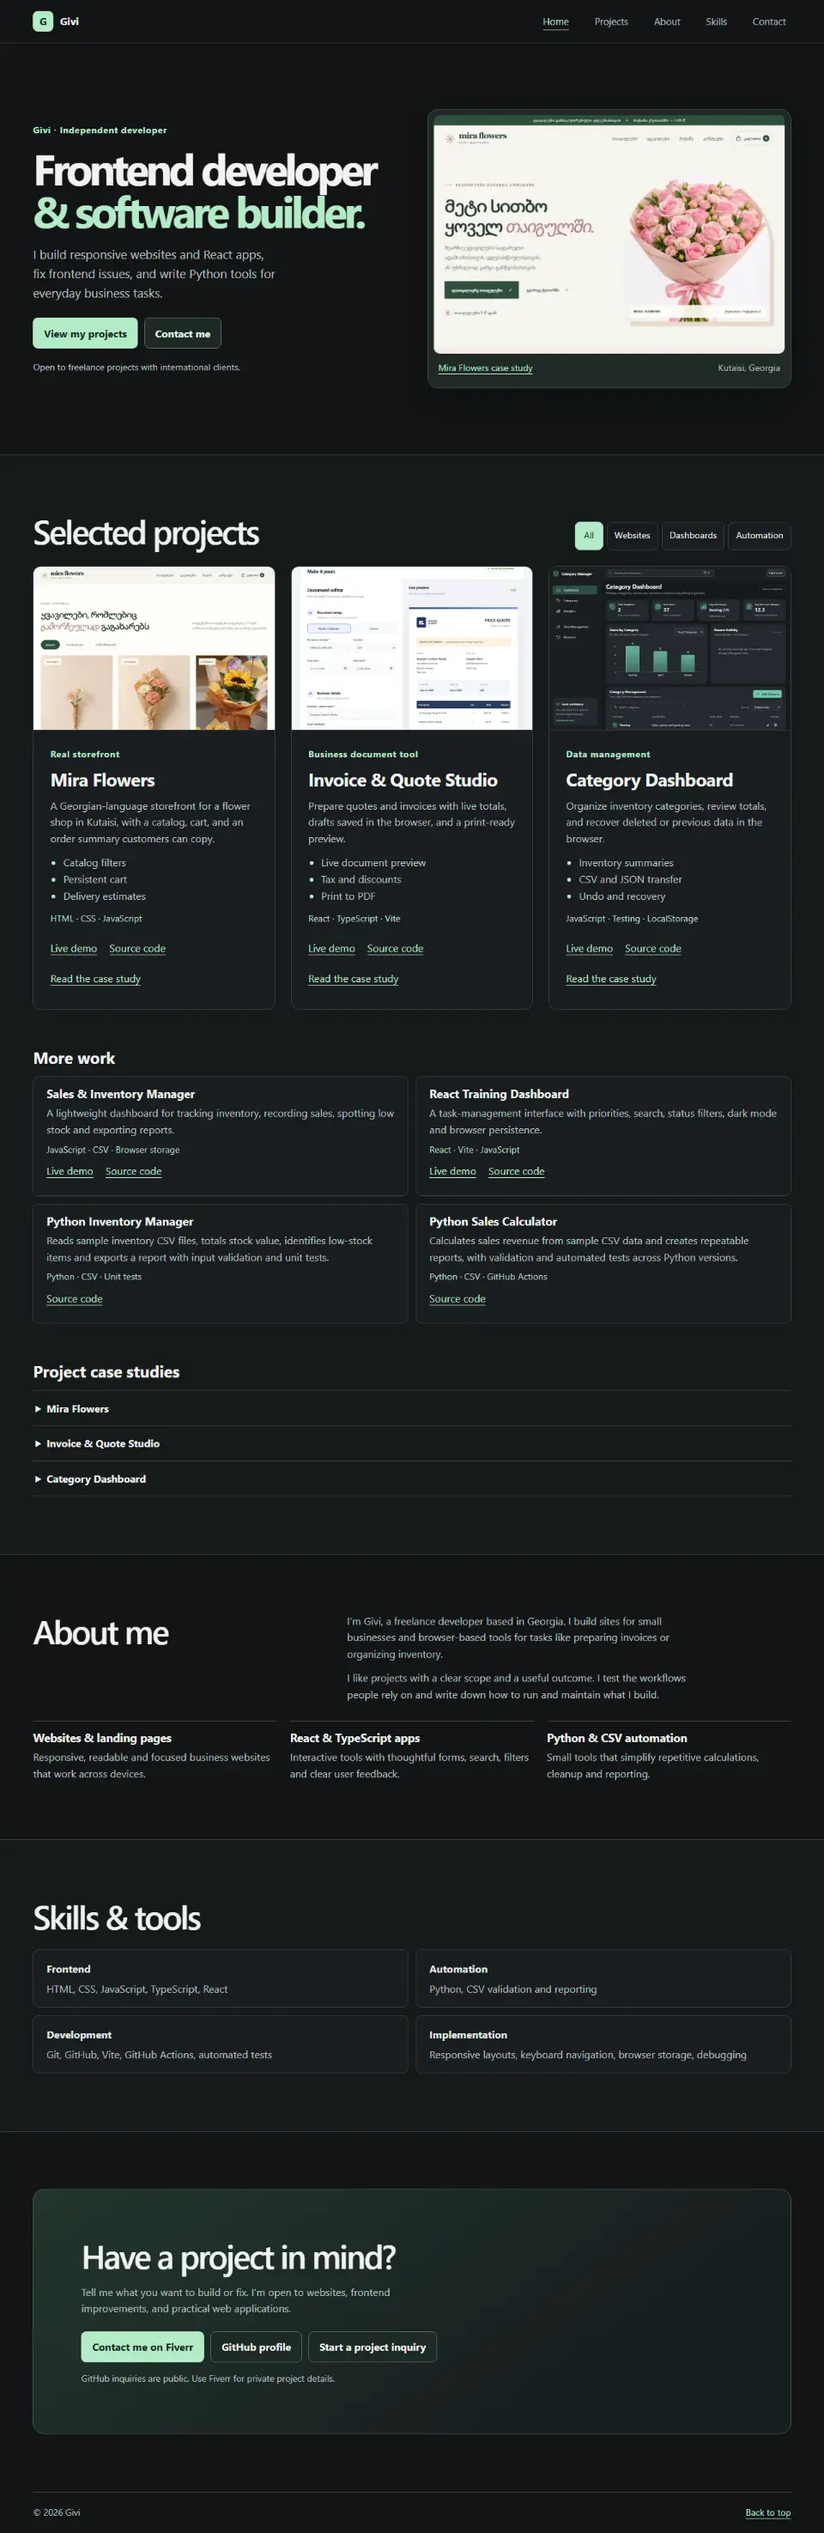
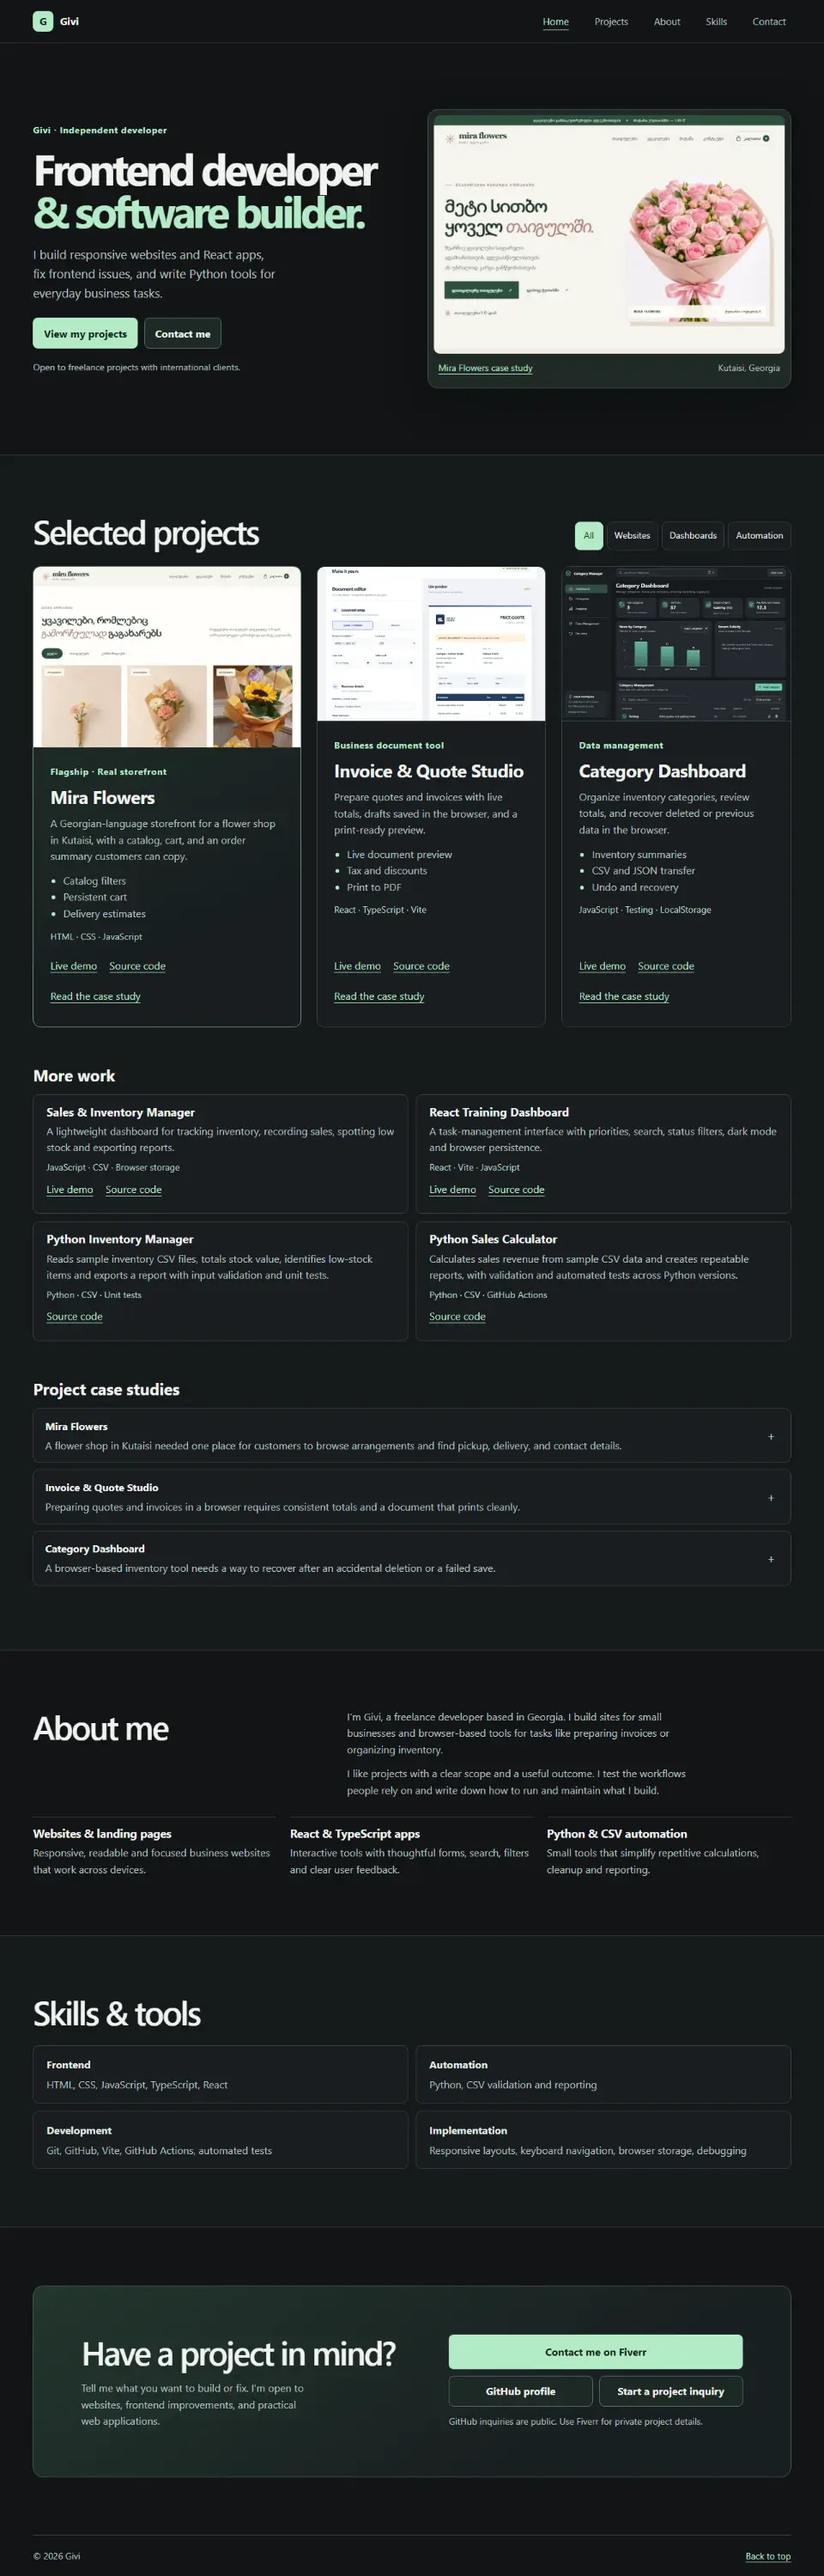
Polish flagship card, case studies, and contact layout

diff --git a/src/styles.css b/src/styles.css
@@ -65,6 +65,15 @@ h2 { font-size: clamp(2.1rem, 4vw, 3.7rem); letter-spacing: -.052em; font-weight
 .project-card { display: flex; flex-direction: column; min-width: 0; border: 1px solid var(--line); border-radius: 12px; background: var(--surface); }
 .project-card img { aspect-ratio: 28 / 19; object-fit: cover; border-radius: 11px 11px 0 0; background: #202729; border-bottom: 1px solid var(--line); }
 .project-card:hover, .project-card:focus-within { border-color: #7d9b8b; }
+.project-card.flagship {
+  border-color: #6f9c83;
+  background: linear-gradient(155deg, #213329, var(--surface) 78%);
+}
+@media (min-width: 961px) {
+  .project-grid:has(.flagship):has(.project-card:nth-child(3)) {
+    grid-template-columns: minmax(0, 1.17fr) repeat(2, minmax(0, 1fr));
+  }
+}
 .project-copy { display: flex; flex-direction: column; flex: 1; gap: 12px; padding: clamp(16px, 2.3vw, 26px); }
 .project-copy h3 { font-size: clamp(1.35rem, 2.2vw, 1.85rem); letter-spacing: -.025em; }
 .capabilities { margin: 0; padding-inline-start: 20px; color: var(--muted); }
@@ -80,14 +89,43 @@ h2 { font-size: clamp(2.1rem, 4vw, 3.7rem); letter-spacing: -.052em; font-weight
 .extra h4 { font-size: 1.125rem; }
 .extra p { margin-top: 7px; }
 
-.case-studies details { border-block-start: 1px solid var(--line); }
-.case-studies details:last-child { border-block-end: 1px solid var(--line); }
-.case-studies summary { padding: 14px 4px; min-height: 48px; font-weight: 650; cursor: pointer; }
-.case-studies summary:hover, .case-studies details[open] summary { color: var(--accent); }
-.case-studies dl { display: grid; grid-template-columns: repeat(3, minmax(0, 1fr)); gap: 22px; padding: 5px 4px 16px; }
+.case-studies details {
+  margin-block: 10px;
+  border: 1px solid var(--line);
+  border-radius: 10px;
+  background: var(--surface);
+}
+.case-studies summary {
+  display: grid;
+  grid-template-columns: minmax(0, 1fr) 24px;
+  gap: 4px 14px;
+  align-items: center;
+  padding: 14px 18px;
+  border-radius: 9px;
+  list-style: none;
+  cursor: pointer;
+}
+.case-studies summary::-webkit-details-marker { display: none; }
+.study-title { font-weight: 650; }
+.study-challenge { grid-column: 1; color: var(--muted); }
+.study-toggle {
+  grid-column: 2;
+  grid-row: 1 / span 2;
+  place-self: center;
+  display: grid;
+  place-items: center;
+  color: var(--accent);
+  font-size: 1.2rem;
+  line-height: 1;
+}
+.study-toggle::after { content: '+'; }
+details[open] .study-toggle::after { content: '−'; }
+.case-studies summary:hover .study-title, .case-studies details[open] .study-title { color: var(--accent); }
+.study-content { margin-inline: 18px; padding-block: 14px; border-top: 1px solid var(--line); }
+.case-studies dl { display: grid; grid-template-columns: repeat(2, minmax(0, 1fr)); gap: 18px; }
 dt { color: #e2ede7; font-weight: 650; }
 dd { margin-top: 5px; }
-.case-link { margin-inline: 4px; }
+.case-link { margin-top: 6px; }
 .case-card-link { align-self: flex-start; margin-top: -9px; }
 
 .about { display: grid; grid-template-columns: 1fr 1.5fr; gap: 28px; }
@@ -98,9 +136,20 @@ dd { margin-top: 5px; }
 .services h3 { font-size: 1.1rem; margin-bottom: 8px; }
 .skill-section { background: #15191b; border-block: 1px solid var(--line); }
 .skill-grid { margin-top: 23px; }
-.contact-panel { padding: clamp(22px, 6vw, 74px); border: 1px solid #425b4d; border-radius: 16px; background: linear-gradient(145deg,#23362d,#191f21 72%); }
-.contact-panel > p { margin-top: 14px; max-width: 57ch; }
-.contact-note { font-size: .875rem; }
+.contact-panel {
+  display: grid;
+  grid-template-columns: minmax(0, 1fr) minmax(0, .9fr);
+  align-items: center;
+  gap: clamp(20px, 5vw, 68px);
+  padding: clamp(22px, 6vw, 74px);
+  border: 1px solid #425b4d;
+  border-radius: 16px;
+  background: linear-gradient(145deg,#23362d,#191f21 72%);
+}
+.contact-intro p { margin-top: 14px; max-width: 42ch; }
+.contact-actions { display: grid; grid-template-columns: repeat(2, minmax(0, 1fr)); margin-top: 0; }
+.contact-actions .primary { grid-column: 1 / -1; min-height: 54px; }
+.contact-note { margin-top: 12px; font-size: .875rem; }
 .footer { display: flex; align-items: center; justify-content: space-between; gap: 12px; min-height: 64px; border-top: 1px solid var(--line); color: var(--muted); font-size: .875rem; }
 
 @media (prefers-reduced-motion: no-preference) {
@@ -116,13 +165,13 @@ dd { margin-top: 5px; }
   .nav { display: none; position: absolute; inset: calc(100% + 1px) 0 auto; padding: 8px; background: var(--surface); border: 1px solid var(--line); border-radius: 0 0 10px 10px; }
   .nav.is-open { display: grid; gap: 2px; }
   .nav a { padding-inline: 12px; }
-  .hero, .about, .services, .case-studies dl { grid-template-columns: minmax(0, 1fr); }
+  .hero, .about, .services, .case-studies dl, .contact-panel { grid-template-columns: minmax(0, 1fr); }
   .hero { gap: 25px; }
   .hero-shot { max-width: 560px; }
 }
 @media (max-width: 570px) {
   .project-grid, .extra-grid, .skill-grid { grid-template-columns: minmax(0, 1fr); }
-  .contact-panel .actions { align-items: stretch; flex-direction: column; }
+  .contact-actions { grid-template-columns: minmax(0, 1fr); }
 }
 @media (prefers-reduced-motion: reduce) {
   html { scroll-behavior: auto; }

diff --git a/src/App.jsx b/src/App.jsx
@@ -113,11 +113,12 @@ function ProjectLinks({ project }) {
 }
 
 function ProjectCard({ project }) {
+  const flagship = project.id === 'mira-flowers';
   return (
-    <article className="project-card">
+    <article className={flagship ? 'project-card flagship' : 'project-card'}>
       <img src={asset(project.study.image)} width="1120" height="760" alt={project.study.alt} loading="lazy" decoding="async" />
       <div className="project-copy">
-        <p className="project-type">{project.label}</p>
+        <p className="project-type">{flagship ? 'Flagship · Real storefront' : project.label}</p>
         <h3>{project.title}</h3>
         <p>{project.summary}</p>
         <ul className="capabilities" aria-label="Capabilities">{project.study.features.map(feature => <li key={feature}>{feature}</li>)}</ul>
@@ -169,13 +170,18 @@ function Work() {
         <section className="case-studies" id="case-study" aria-labelledby="case-title">
           <h3 id="case-title">Project case studies</h3>
           {featured.map(project => <details key={project.id} id={'case-study-' + project.id}>
-            <summary>{project.title}</summary>
-            <dl>
-              <div><dt>Challenge</dt><dd>{project.study.challenge}</dd></div>
-              <div><dt>What I built</dt><dd>{project.study.contribution}</dd></div>
-              <div><dt>Result</dt><dd>{project.study.result}</dd></div>
-            </dl>
-            {project.id === 'mira-flowers' && <ExternalLink href={project.code + '/blob/main/docs/CASE_STUDY.md'} className="case-link">Read the technical breakdown</ExternalLink>}
+            <summary>
+              <span className="study-title">{project.title}</span>
+              <span className="study-challenge">{project.study.challenge}</span>
+              <span className="study-toggle" aria-hidden="true" />
+            </summary>
+            <div className="study-content">
+              <dl>
+                <div><dt>What I built</dt><dd>{project.study.contribution}</dd></div>
+                <div><dt>Result</dt><dd>{project.study.result}</dd></div>
+              </dl>
+              {project.id === 'mira-flowers' && <ExternalLink href={project.code + '/blob/main/docs/CASE_STUDY.md'} className="case-link">Read the technical breakdown</ExternalLink>}
+            </div>
           </details>)}
         </section>
       </div>
@@ -211,14 +217,18 @@ function Skills() {
 function Contact() {
   return <section id="contact" className="section shell" aria-labelledby="contact-title" tabIndex={-1}>
     <div className="contact-panel">
-      <h2 id="contact-title">Have a project in mind?</h2>
-      <p>Tell me what you want to build or fix. I'm open to websites, frontend improvements, and practical web applications.</p>
-      <div className="actions">
-        <ExternalLink className="button primary" href={links.fiverr}>Contact me on Fiverr</ExternalLink>
-        <ExternalLink className="button secondary" href={links.github}>GitHub profile</ExternalLink>
-        <ExternalLink className="button secondary" href={links.inquiry}>Start a project inquiry</ExternalLink>
+      <div className="contact-intro">
+        <h2 id="contact-title">Have a project in mind?</h2>
+        <p>Tell me what you want to build or fix. I'm open to websites, frontend improvements, and practical web applications.</p>
       </div>
-      <p className="contact-note">GitHub inquiries are public. Use Fiverr for private project details.</p>
+      <div>
+        <div className="actions contact-actions">
+          <ExternalLink className="button primary" href={links.fiverr}>Contact me on Fiverr</ExternalLink>
+          <ExternalLink className="button secondary" href={links.github}>GitHub profile</ExternalLink>
+          <ExternalLink className="button secondary" href={links.inquiry}>Start a project inquiry</ExternalLink>
+        </div>
+        <p className="contact-note">GitHub inquiries are public. Use Fiverr for private project details.</p>
+      </div>
     </div>
   </section>;
 }
